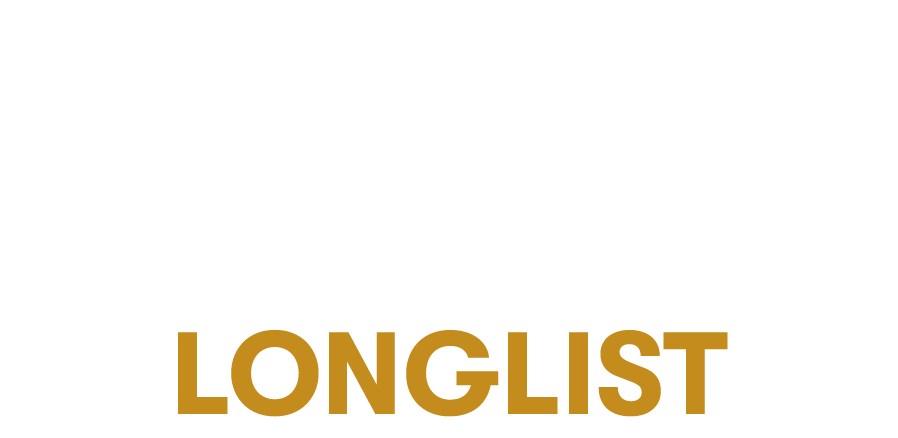
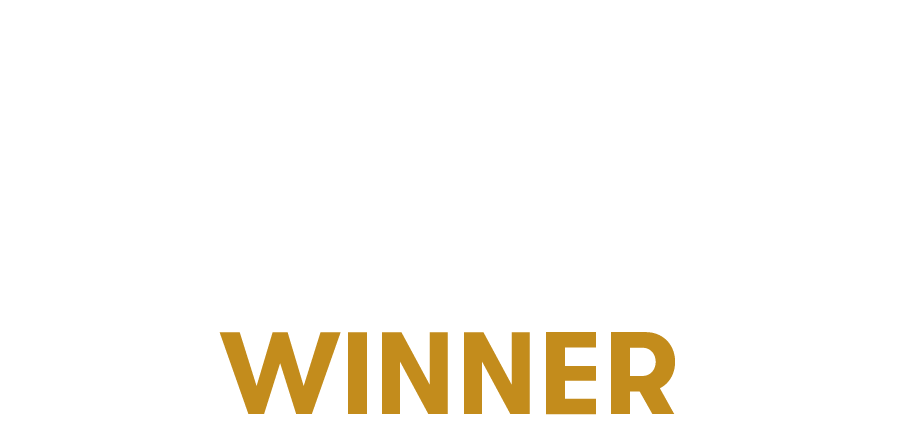
awards

Changed region(s): [[0.1871, 0.742, 0.8107, 0.9498]]

diff --git a/src/routes/presskit/+page.svelte b/src/routes/presskit/+page.svelte
@@ -280,10 +280,13 @@ import '../styles.css';
                       d="M464 80h-60.1a4 4 0 01-4-4V63.92a32 32 0 00-32-31.92l-223.79.26a32 32 0 00-31.94 31.93V76a4 4 0 01-4 4H48a16 16 0 00-16 16v16c0 54.53 30 112.45 76.52 125.35a7.82 7.82 0 015.55 5.9c5.77 26.89 23.52 52.5 51.41 73.61 20.91 15.83 45.85 27.5 68.27 32.48a8 8 0 016.25 7.8V444a4 4 0 01-4 4h-59.55c-8.61 0-16 6.62-16.43 15.23A16 16 0 00176 480h159.55c8.61 0 16-6.62 16.43-15.23A16 16 0 00336 448h-60a4 4 0 01-4-4v-86.86a8 8 0 016.25-7.8c22.42-5 47.36-16.65 68.27-32.48 27.89-21.11 45.64-46.72 51.41-73.61a7.82 7.82 0 015.55-5.9C450 224.45 480 166.53 480 112V96a16 16 0 00-16-16zM112 198.22a4 4 0 01-6 3.45c-10.26-6.11-17.75-15.37-22.14-21.89-11.91-17.69-19-40.67-19.79-63.63a4 4 0 014-4.15h40a4 4 0 014 4c-.02 27.45-.07 58.87-.07 82.22zm316.13-18.44c-4.39 6.52-11.87 15.78-22.13 21.89a4 4 0 01-6-3.46c0-26.51 0-56.63-.05-82.21a4 4 0 014-4h40a4 4 0 014 4.15c-.79 22.96-7.9 45.94-19.81 63.63z">
                     </path>
                   </svg>
+                  <div class="sc-bBHxTw iBaHTr sc-iwjdpV hppyeA"><strong>BAFTA Student Awards Winner - Games Category</strong></div>
+                  <div class="sc-bBHxTw iBaHTr sc-iwjdpV hppyeA"><cite>British Academy of Film and Television Arts</cite><span>,  </span><span>2025</span></div>
+                  <div class="sc-bBHxTw iBaHTr sc-iwjdpV hppyeA"><strong>TOKYO INDIE GAMES SUMMIT - Exhibitor</strong></div>
+                  <div class="sc-bBHxTw iBaHTr sc-iwjdpV hppyeA"><cite>TOKYO INDIE GAMES SUMMIT</cite><span>,  </span><span>2024</span></div>
                   <div class="sc-bBHxTw iBaHTr sc-iwjdpV hppyeA"><strong>USC Games Expo 2024 Audience Choice - Powerful
                       Message</strong></div>
-                  <div class="sc-bBHxTw iBaHTr sc-iwjdpV hppyeA"><cite>USC Games</cite><span>,  </span><span>2024</span>
-                  </div>
+                  <div class="sc-bBHxTw iBaHTr sc-iwjdpV hppyeA"><cite>USC Games</cite><span>,  </span><span>2024</span></div>
                 </div>
               </div>
             </div>
@@ -318,6 +321,6 @@ import '../styles.css';
   </div>
   <div>
     <script id="fp"
-      type="application/json">{"version":1,"name":"Free Will","genres":["RPG, Puzzle, Psychological, 2D"],"platforms":[{"name":"PC (Windows)","releaseDate":"2024-05-07","url":"https://store.steampowered.com/app/2571880/Free_Will/"}],"offers":[],"developers":[],"publishers":[],"credits":[{"socials":[],"name":"Kipps in a Box","role":"Development Team"}],"socials":["https://x.com/FreeWill_Game","https://www.instagram.com/freewill_game/","https://www.tiktok.com/@freewillgame","https://discord.gg/umAuPM9KCJ"],"features":["Meta-puzzles that are solved by playing outside of the game and tweaking system files","Two endings to choose from, but you can only choose one…","Charming pixel art inspired by Gameboy-era games","…Help Will, please?"],"videos":[{"url":"https://youtu.be/3uqAsG1MWGI?si=1aQRArdtwoNSDoVJ"}],"images":[{"url":"https://www.freewillgame.com/assets/screenshots/p1.avif"},{"url":"https://www.freewillgame.com/assets/screenshots/p2.avif"},{"url":"https://www.freewillgame.com/assets/screenshots/p3.avif"},{"url":"https://www.freewillgame.com/assets/screenshots/p4.avif"},{"url":"https://www.freewillgame.com/assets/screenshots/p5.avif"},{"url":"https://www.freewillgame.com/assets/screenshots/p6.avif"},{"url":"https://www.freewillgame.com/assets/screenshots/p7.avif"},{"url":"https://www.freewillgame.com/assets/screenshots/p8.avif"},{"url":"https://www.freewillgame.com/assets/screenshots/p9.avif"},{"url":"https://www.freewillgame.com/assets/screenshots/p10.avif"}],"artwork":[],"logos":[{"url":"https://www.freewillgame.com/assets/presskit/FW_logo.png"}],"colors":["#080909","#383f43","#a29e9b","#fffce7","#fe131a"],"awards":[{"title":"USC Games Expo 2024 Audience Choice - Powerful Message","issuer":"USC Games","date":"2024-05-07"}],"website":"https://www.freewillgame.com/","status":"Available","gameVersion":"1.2.0","description":"Free Will is a 2D psychological puzzle RPG where the puzzles happen outside of the game. Players control Will, a young boy who has been bedridden for most of his life but must now fight against reality-breaking monsters as he struggles to understand the depth of his own autonomy. Dig deep into the system files to fix the corruption and unearthing ̸i̶n̵f̷o̴r̶m̸a̷t̵i̴o̵n̸ ̸t̶h̶a̸t̷ ̶̃̕t̵͓̔h̴̟́e̴͐̌ ̵̈̾inhabitants of this ̄̈́h̵̐͆ô̴̋u̸̎̅s̸e might b͑͛e̴ b̑ĕ̷͕t̷ter off not ̷͋̔k̴̈́̍nowing.̴̆̃","pitch":"THE GAME IS CORRUPTED. DO YOU WISH TO PROCEED?\nFree Will is a 2D psychological puzzle RPG where the puzzles happen outside of the game. Dig deep into the system files to fix the corruption and uncover information that might be better off hidden.","brandInfo":"Use of chromatic aberration and/or \"glitchy\" visual effects are encouraged. \nWhen scaling pixel art or the game's logo, please use \"Nearest Neighbor\" interpolation for non-blurry pixels.","id":0,"boxArt":"https://www.freewillgame.com/assets/presskit/FW_key_art.png"}</script>
+      type="application/json">{"version":1,"name":"Free Will","genres":["RPG, Puzzle, Psychological, 2D"],"platforms":[{"name":"PC (Windows)","releaseDate":"2024-05-07","url":"https://store.steampowered.com/app/2571880/Free_Will/"}],"offers":[],"developers":[],"publishers":[],"credits":[{"socials":[],"name":"Kipps in a Box","role":"Development Team"}],"socials":["https://x.com/FreeWill_Game","https://www.instagram.com/freewill_game/","https://www.tiktok.com/@freewillgame","https://discord.gg/umAuPM9KCJ"],"features":["Meta-puzzles that are solved by playing outside of the game and tweaking system files","Two endings to choose from, but you can only choose one…","Charming pixel art inspired by Gameboy-era games","…Help Will, please?"],"videos":[{"url":"https://youtu.be/3uqAsG1MWGI?si=1aQRArdtwoNSDoVJ"}],"images":[{"url":"https://www.freewillgame.com/assets/screenshots/p1.avif"},{"url":"https://www.freewillgame.com/assets/screenshots/p2.avif"},{"url":"https://www.freewillgame.com/assets/screenshots/p3.avif"},{"url":"https://www.freewillgame.com/assets/screenshots/p4.avif"},{"url":"https://www.freewillgame.com/assets/screenshots/p5.avif"},{"url":"https://www.freewillgame.com/assets/screenshots/p6.avif"},{"url":"https://www.freewillgame.com/assets/screenshots/p7.avif"},{"url":"https://www.freewillgame.com/assets/screenshots/p8.avif"},{"url":"https://www.freewillgame.com/assets/screenshots/p9.avif"},{"url":"https://www.freewillgame.com/assets/screenshots/p10.avif"}],"artwork":[],"logos":[{"url":"https://www.freewillgame.com/assets/presskit/FW_logo.png"}],"colors":["#080909","#383f43","#a29e9b","#fffce7","#fe131a"],"awards":[{"title":"USC Games Expo 2024 Audience Choice - Powerful Message","issuer":"USC Games","date":"2024-05-07"},{"title":"BAFTA Student Awards 2025 - Games","issuer":"British Academy of Film and Television Arts","date":"2025-06-13"}],"website":"https://www.freewillgame.com/","status":"Available","gameVersion":"1.2.0","description":"Free Will is a 2D psychological puzzle RPG where the puzzles happen outside of the game. Players control Will, a young boy who has been bedridden for most of his life but must now fight against reality-breaking monsters as he struggles to understand the depth of his own autonomy. Dig deep into the system files to fix the corruption and unearthing ̸i̶n̵f̷o̴r̶m̸a̷t̵i̴o̵n̸ ̸t̶h̶a̸t̷ ̶̃̕t̵͓̔h̴̟́e̴͐̌ ̵̈̾inhabitants of this ̄̈́h̵̐͆ô̴̋u̸̎̅s̸e might b͑͛e̴ b̑ĕ̷͕t̷ter off not ̷͋̔k̴̈́̍nowing.̴̆̃","pitch":"THE GAME IS CORRUPTED. DO YOU WISH TO PROCEED?\nFree Will is a 2D psychological puzzle RPG where the puzzles happen outside of the game. Dig deep into the system files to fix the corruption and uncover information that might be better off hidden.","brandInfo":"Use of chromatic aberration and/or \"glitchy\" visual effects are encouraged. \nWhen scaling pixel art or the game's logo, please use \"Nearest Neighbor\" interpolation for non-blurry pixels.","id":0,"boxArt":"https://www.freewillgame.com/assets/presskit/FW_key_art.png"}</script>
     <script id="fppk" type="application/json">{"version":0,"id":0}</script>
   </div>
